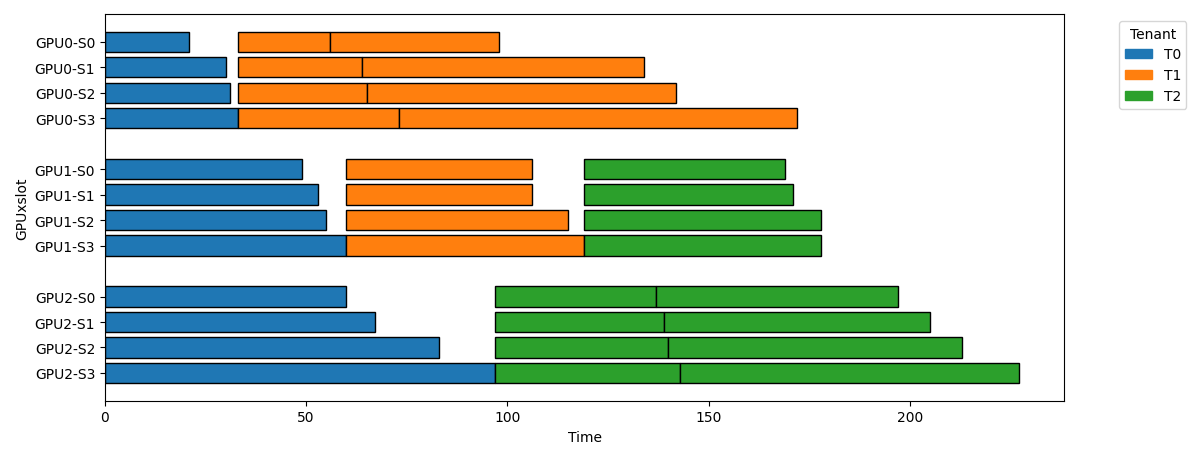
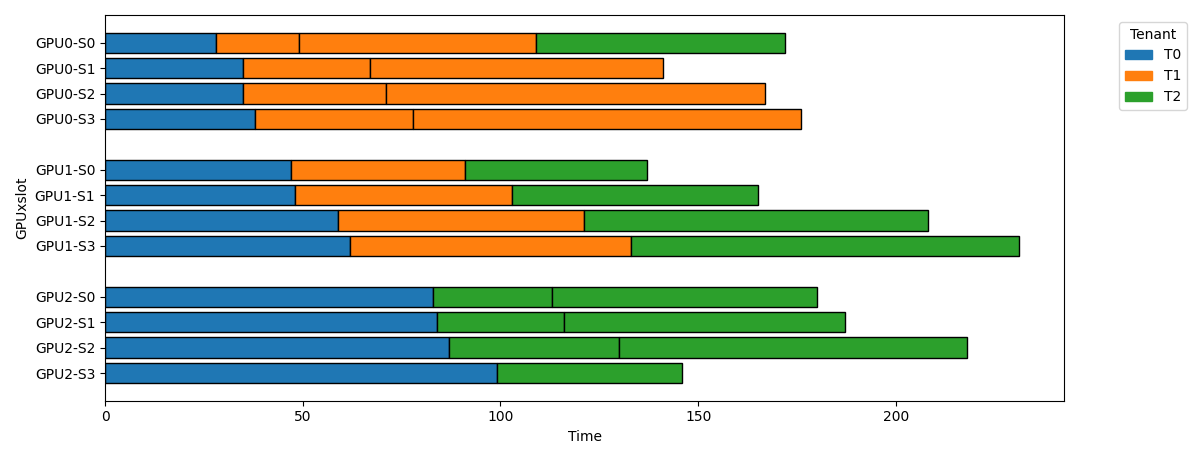
Develop simulator

diff --git a/simulator/simulator.py b/simulator/simulator.py
@@ -95,6 +95,10 @@ class Simulator:
                 segs[-1]['end'] = now
                 # TODO: Update tenant finish time
                 # if all done: finish_time[t] = xxxx
+                finished = all([r.id in self.history and self.history[r.id][-1]['end'] is not None for r in self.all_req_queues[req.tenant]])
+                if finished:
+                    assert now == max([self.history[r.id][-1]['end'] for r in self.all_req_queues[req.tenant]])
+                    self.finish_time[req.tenant] = now
 
             # Trigger migration
             ops = self.scheduler.migrate(self.gpus, now, self.history)
@@ -102,6 +106,7 @@ class Simulator:
                 # The previous segment is done, will run on the migrated GPU
                 self.history[req.id][-1]['end'] = now
                 self.gpus[from_gpu].remove(req)
+                req.remaining -= now - self.history[req.id][-1]['start']
                 # TODO: migration cost due to data transfer
                 self.gpus[to_gpu].assign(req, now)
                 self._schedule_finish(req, now)
@@ -152,6 +157,7 @@ if __name__ == "__main__":
         1: sorted([random.randint(20,100) for _ in range(12)]),
         2: sorted([random.randint(20,100) for _ in range(12)]),
     }
+    print(tenants)
     sim = Simulator(tenants, ngpus=3, per_gpu_max_bsz=4, scheduler=RandomScheduler())
     finish, history = sim.run()
     print("Finish:", finish)

diff --git a/simulator/scheduler.py b/simulator/scheduler.py
@@ -73,4 +73,24 @@ class RandomScheduler(Scheduler):
                    history: Dict[int,List[Dict]]
                   ) -> List[Tuple[int, GPU]]:
         # TODO: implement the logic to randomly select requests from the current tenant's queue
-        return []
+        # return []
+        assignments: List[Tuple[int, GPU]] = []
+        total_free_slots = sum([gpu.free_slots() for gpu in gpus])
+        if total_free_slots == 0:
+            return []
+        avail_gpus = {gpu: gpu.free_slots() for gpu in gpus if gpu.free_slots() > 0}
+        for tenant, req_queue in all_req_queues.items():
+            for r in req_queue: # sequentially select requests
+                if r.id not in history:
+                    total_free_slots -= 1
+                    for gpu, free_slots in avail_gpus.items(): # sequentially select assigned gpus
+                        if free_slots > 0:
+                            assignments.append((r.id, gpu))
+                            avail_gpus[gpu] -= 1
+                            break
+                    assert assignments[-1][0] == r.id
+                    if total_free_slots == 0:
+                        print([(req_id, gpu.gid) for req_id, gpu in assignments])
+                        return assignments
+        print([(req_id, gpu.gid) for req_id, gpu in assignments])                    
+        return assignments

diff --git a/simulator/objects.py b/simulator/objects.py
@@ -37,7 +37,7 @@ class GPU:
 
     def remove(self, req: Request) -> int:
         for i, r in enumerate(self.slots):
-            if r.id == req.id:
+            if r is not None and r.id == req.id:
                 self.slots[i] = None
                 return i
         raise RuntimeError("Request not found")
